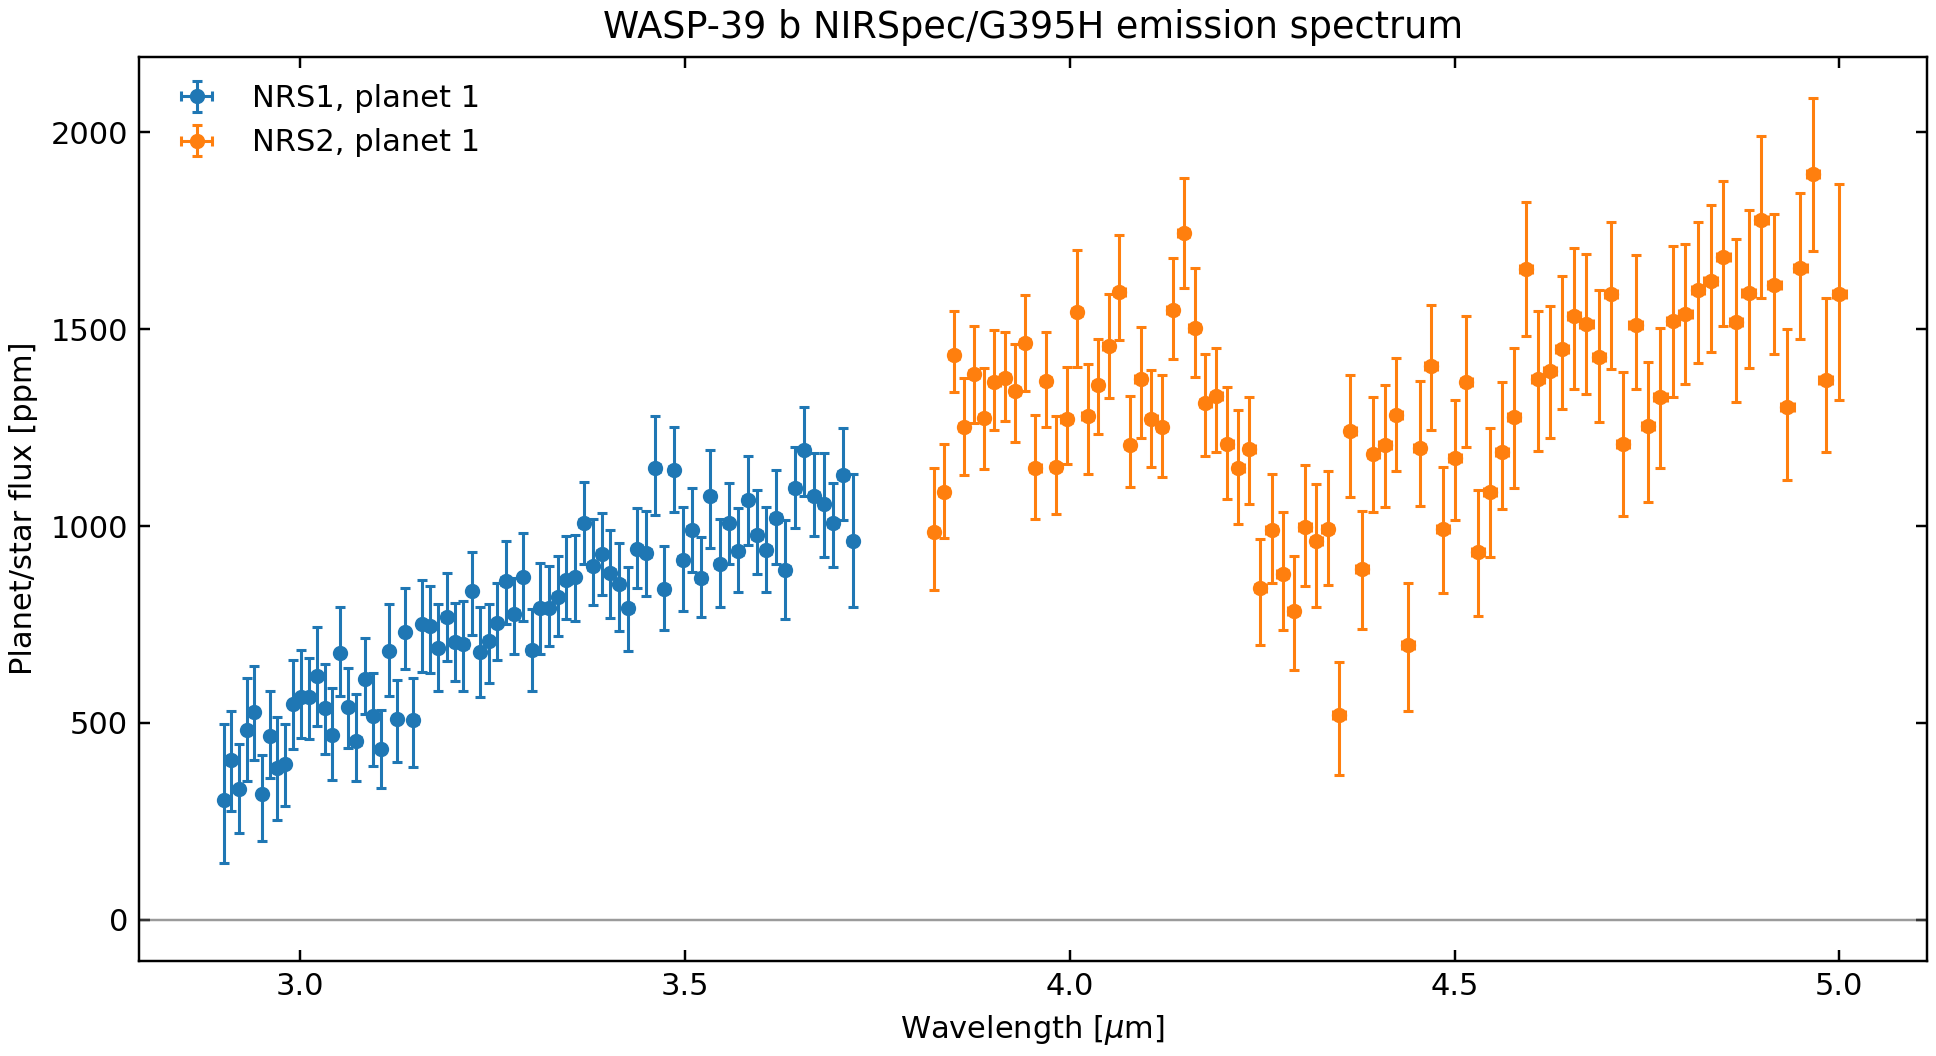
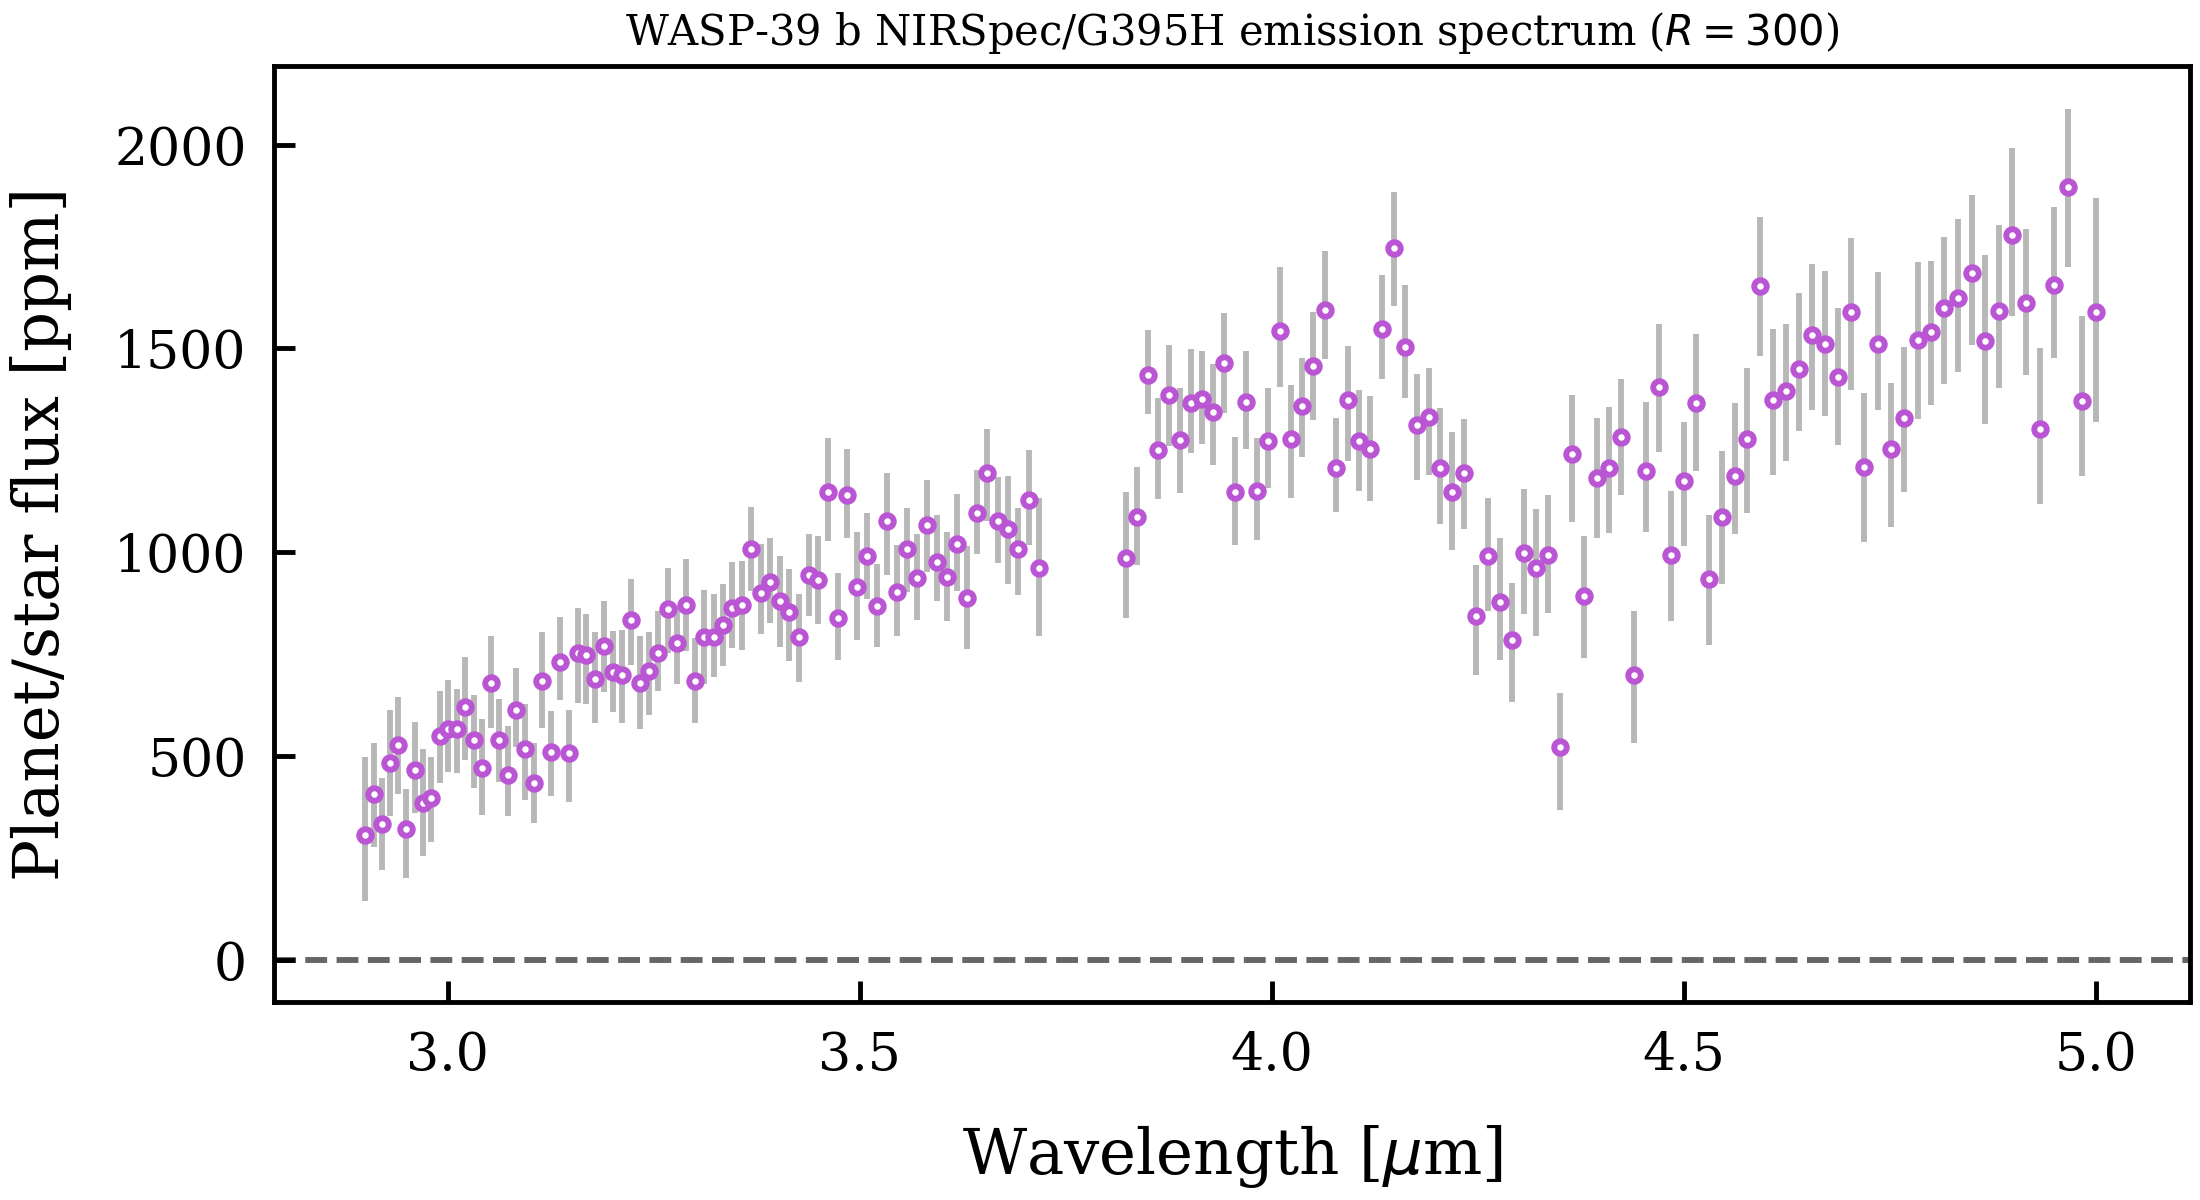
Match the eclipse spectrum to the Koala plot style

Changed region(s): [[0.0, 0.0, 1.0, 1.0], [0.062, 0.8438, 0.093, 0.875]]

diff --git a/tools/combine_wasp39_emission.py b/tools/combine_wasp39_emission.py
@@ -1,0 +1,111 @@
+#!/usr/bin/env python3
+"""Combine detector-level eclipse products into one emission spectrum."""
+
+from __future__ import annotations
+
+import argparse
+from pathlib import Path
+import sys
+
+sys.path.insert(0, str(Path(__file__).resolve().parents[1]))
+
+import matplotlib
+
+matplotlib.use("Agg")
+import matplotlib.pyplot as plt
+import numpy as np
+import pandas as pd
+
+from plotting_style import (
+    DATA_MARKER_STYLE,
+    ERRORBAR_COLOR,
+    SPECTRUM_COLOR,
+    ZERO_LINE_COLOR,
+    apply_publication_style,
+    style_axis,
+)
+
+
+REQUIRED = {
+    "wavelength",
+    "wavelength_err",
+    "eclipse_depth_ppm",
+    "eclipse_depth_ppm_err_low",
+    "eclipse_depth_ppm_err_high",
+}
+
+
+def parse_args() -> argparse.Namespace:
+    parser = argparse.ArgumentParser(
+        description="Combine NRS1 and NRS2 eclipse-depth CSV products."
+    )
+    parser.add_argument("--nrs1", required=True, type=Path)
+    parser.add_argument("--nrs2", required=True, type=Path)
+    parser.add_argument(
+        "--output-stem",
+        required=True,
+        type=Path,
+        help="Output path without .csv/.png suffixes.",
+    )
+    return parser.parse_args()
+
+
+def load_detector(path: Path, detector: str) -> pd.DataFrame:
+    if not path.is_file():
+        raise FileNotFoundError(f"Missing {detector} emission product: {path}")
+    frame = pd.read_csv(path)
+    missing = sorted(REQUIRED - set(frame.columns))
+    if missing:
+        raise ValueError(f"{path} is missing required columns: {missing}")
+    frame = frame.copy()
+    frame.insert(0, "detector", detector)
+    frame["source_file"] = str(path.resolve())
+    return frame
+
+
+def main() -> None:
+    args = parse_args()
+    frames = [load_detector(args.nrs1, "NRS1"), load_detector(args.nrs2, "NRS2")]
+    combined = pd.concat(frames, ignore_index=True, sort=False)
+    sort_columns = ["wavelength"]
+    if "planet_index" in combined.columns:
+        sort_columns.insert(0, "planet_index")
+    combined = combined.sort_values(sort_columns, kind="stable").reset_index(drop=True)
+
+    output_stem = args.output_stem
+    output_stem.parent.mkdir(parents=True, exist_ok=True)
+    csv_path = output_stem.with_suffix(".csv")
+    png_path = output_stem.with_suffix(".png")
+    combined.to_csv(csv_path, index=False)
+
+    apply_publication_style()
+    fig, ax = plt.subplots(figsize=(8.8, 4.8), constrained_layout=True)
+    ax.errorbar(
+        combined["wavelength"],
+        combined["eclipse_depth_ppm"],
+        xerr=combined["wavelength_err"],
+        yerr=np.vstack(
+            [
+                combined["eclipse_depth_ppm_err_low"],
+                combined["eclipse_depth_ppm_err_high"],
+            ]
+        ),
+        color=SPECTRUM_COLOR,
+        mec=SPECTRUM_COLOR,
+        ecolor=ERRORBAR_COLOR,
+        zorder=3,
+        **DATA_MARKER_STYLE,
+    )
+    ax.axhline(0, color=ZERO_LINE_COLOR, lw=1.7, ls="--", zorder=1)
+    ax.set_xlabel(r"Wavelength [$\mu$m]")
+    ax.set_ylabel("Planet/star flux [ppm]")
+    ax.set_title(r"WASP-39 b NIRSpec/G395H emission spectrum ($R = 300$)")
+    style_axis(ax)
+    fig.savefig(png_path, dpi=250)
+    plt.close(fig)
+    print(f"Wrote {len(combined)} channels to {csv_path}")
+    print(f"Wrote combined emission plot to {png_path}")
+
+
+if __name__ == "__main__":
+    main()
